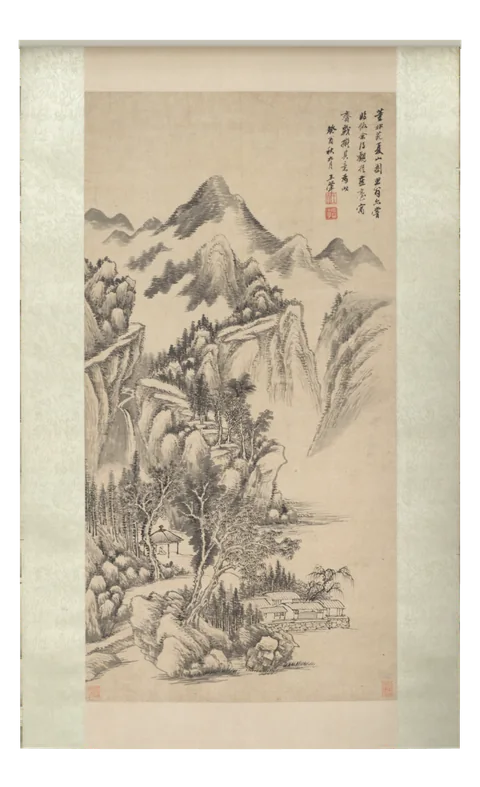
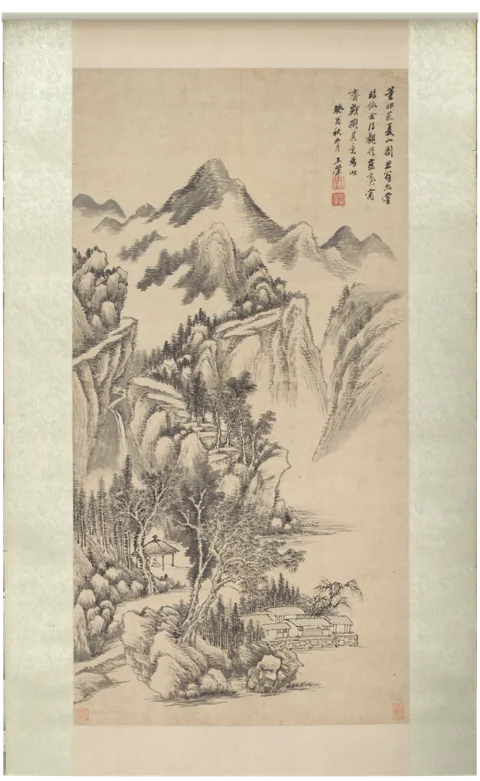
挂画两侧内收，左右下三边加细微渐隐

diff --git a/src/styles/theme.css b/src/styles/theme.css
@@ -103,28 +103,28 @@ html:root {
          */
         --home-column: clamp(44rem, 100vw - 68rem, 60rem);
         /*
-         * The scrolls live in the free strip between the column and the
-         * screen edge, and are centred in it rather than pushed up against
-         * the column — that is what makes them read as hung on the wall
-         * instead of crowding the text. --wall-edge is the least margin
-         * kept at the screen edge.
+         * The scrolls hang in the free strip between the column and the
+         * screen edge. --wall-edge is the least margin kept at the screen
+         * edge and --wall-pull is how far back off that edge they sit, so
+         * they neither crowd the text nor press against the bezel.
          */
         --home-free: calc((100vw - var(--home-column)) / 2);
         --wall-edge: clamp(1rem, 1.6vw, 3rem);
-        --wall-gap: clamp(1.5rem, 3vw, 4rem);
+        --wall-pull: clamp(0.75rem, 2.2vw, 3.5rem);
+        --wall-gap: clamp(0.75rem, 1.2vw, 2rem);
         /*
          * One shared height for both scrolls, so their lower edges line up on
          * the same horizontal; each mount then keeps its own aspect ratio.
          * The height is the smallest of: a fraction of the column, ~62% of
          * the viewport, and whatever is left of the free strip once the edge
-         * margin and a comfortable gap off the column are both taken out.
-         * 0.61 is the wider mount's width/height (900×1475), so the scroll
-         * never intrudes on the text.
+         * margin, the pull off it and a minimum gap back to the column are
+         * taken out. 0.63 is a hair above the wider mount's width/height
+         * (900×1464 = 0.615), so the scroll never touches the text.
          */
         --wall-height: min(
             calc(var(--home-column) * 0.62),
             62vh,
-            calc((var(--home-free) - var(--wall-edge) - var(--wall-gap)) / 0.61)
+            calc((var(--home-free) - var(--wall-edge) - var(--wall-pull) - var(--wall-gap)) / 0.63)
         );
     }
 }

diff --git a/src/styles/skeuo-home.css b/src/styles/skeuo-home.css
@@ -70,17 +70,17 @@
 
     /*
      * The two mounts have different aspect ratios, so their rendered widths
-     * differ and no single calc can centre both in the free strip. Pinning
-     * each to its own screen edge with --wall-edge as the margin pushes them
-     * as far out as the strip allows, and keeps the left and right margins
-     * identical — the reading that matters when they flank a page.
+     * differ and no single calc can centre both in the free strip. Each is
+     * offset from its own screen edge by --wall-edge + --wall-pull, which
+     * keeps the left and right margins identical while holding the pair back
+     * off the bezel instead of pressing against it.
      */
     #content-wrapper .home-composition > .wall-art--left {
-        left: var(--wall-edge);
+        left: calc(var(--wall-edge) + var(--wall-pull));
     }
 
     #content-wrapper .home-composition > .wall-art--right {
-        right: var(--wall-edge);
+        right: calc(var(--wall-edge) + var(--wall-pull));
     }
 
     /* Below ~1400px the gutters are tight: captions would wrap, so show the

diff --git a/scripts/bake-scroll/scene.js b/scripts/bake-scroll/scene.js
@@ -414,13 +414,19 @@ const topB  = SILK_TOP + rodR * 3.2;
  * extra room below keeps the bottom edge from sitting on the pixel boundary,
  * where the WebP's soft alpha would get clipped.
  */
-const botB  = SILK_BOT - silkW * 0.012;
+const botB  = SILK_BOT;
 const spanH = topB - botB;
 const totalW = silkW;
 
-/* pad the tight bounds so the object never touches the frame edge */
-const padY = spanH * 0.045;
-const padX = totalW * 0.045;
+/*
+ * Keep the transparent margin to just enough for antialiasing, so the image
+ * edge lands on the paper edge. A wide safety margin looks harmless in the
+ * bake, but the page fades the outer few percent of the image to blend the
+ * mount into the wall — with a 4.5% margin that fade was spent dissolving
+ * empty pixels and the paper kept a hard edge.
+ */
+const padY = spanH * 0.006;
+const padX = totalW * 0.006;
 const needH = spanH + padY * 2;
 const needW = totalW + padX * 2;
 

diff --git a/public/assets/art/README.md b/public/assets/art/README.md
@@ -18,6 +18,11 @@ knobs reads as lacquered plastic long before the eye accepts it, so the mount
 ends in a bare paper edge and lets its own silhouette and cast shadow carry
 the bottom of the composition.
 
+The transparent margin around each mount is kept to ~0.6% so the image edge
+lands on the paper edge. The page fades the outer few percent of the image to
+blend the mount into the wall, and a wide safety margin would spend that fade
+on empty pixels instead of on paper.
+
 The mount itself is *not* relit. Its photograph already carries gallery light
 that is correct for silk, and pushing it through the scene key clipped the
 damask weave to white — so the sheet is drawn unlit and only the form
